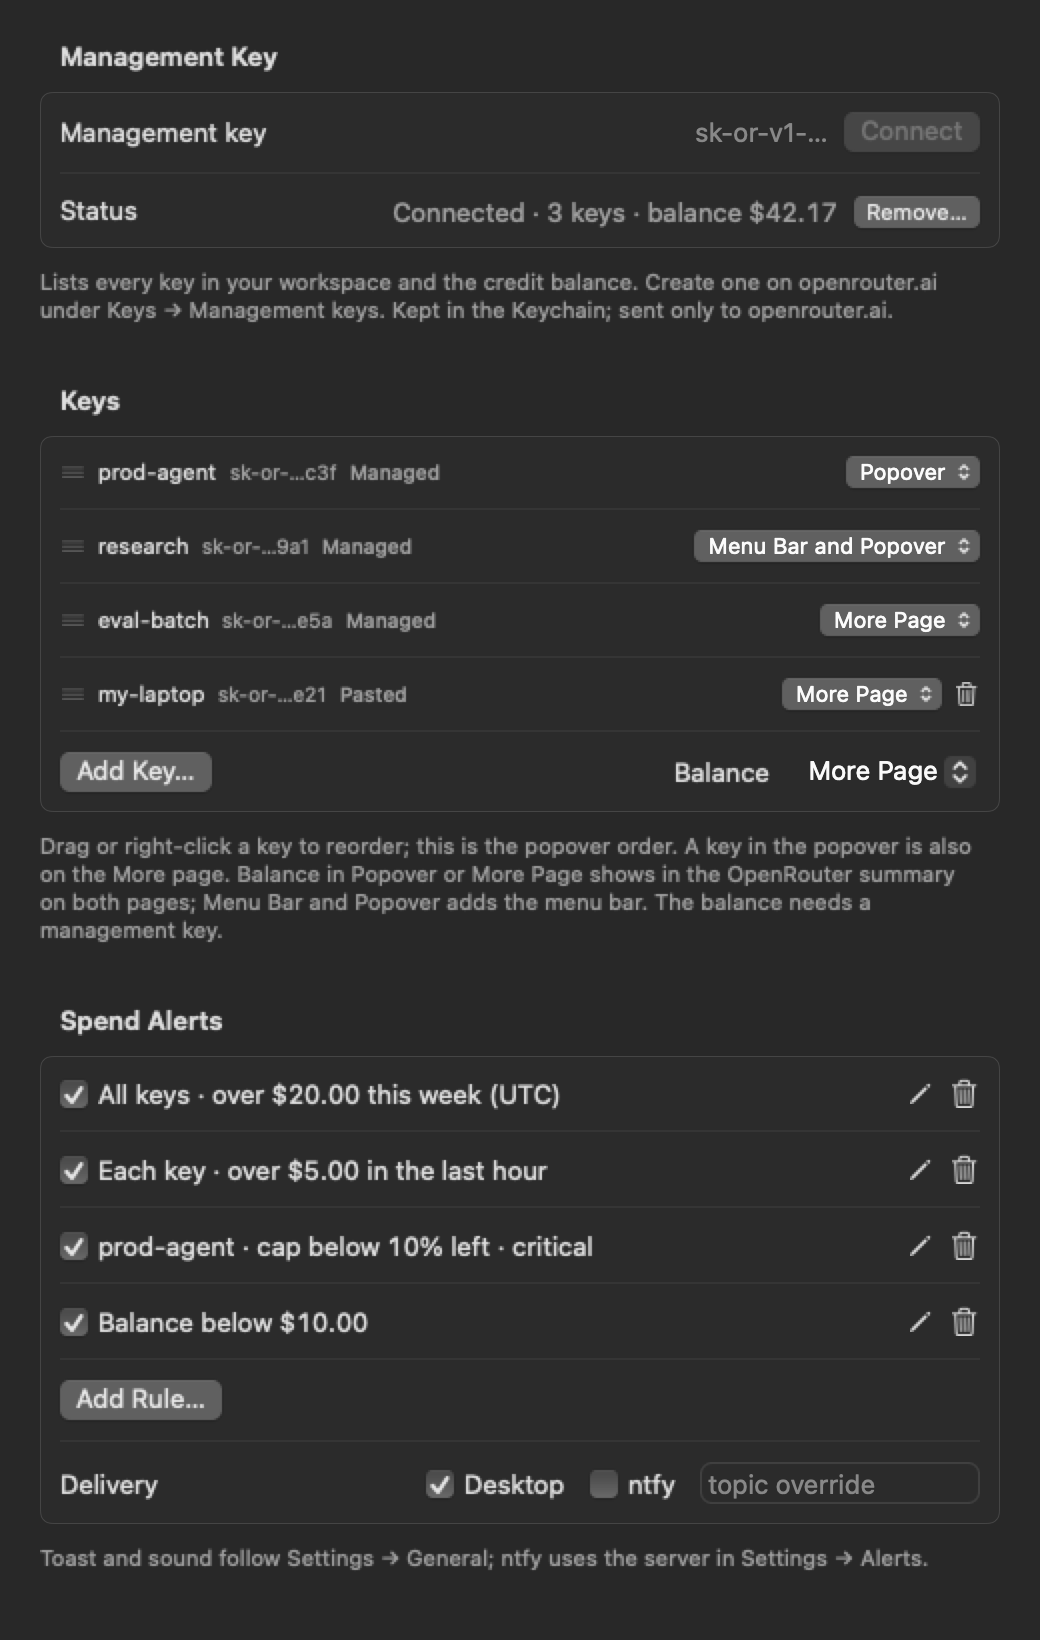
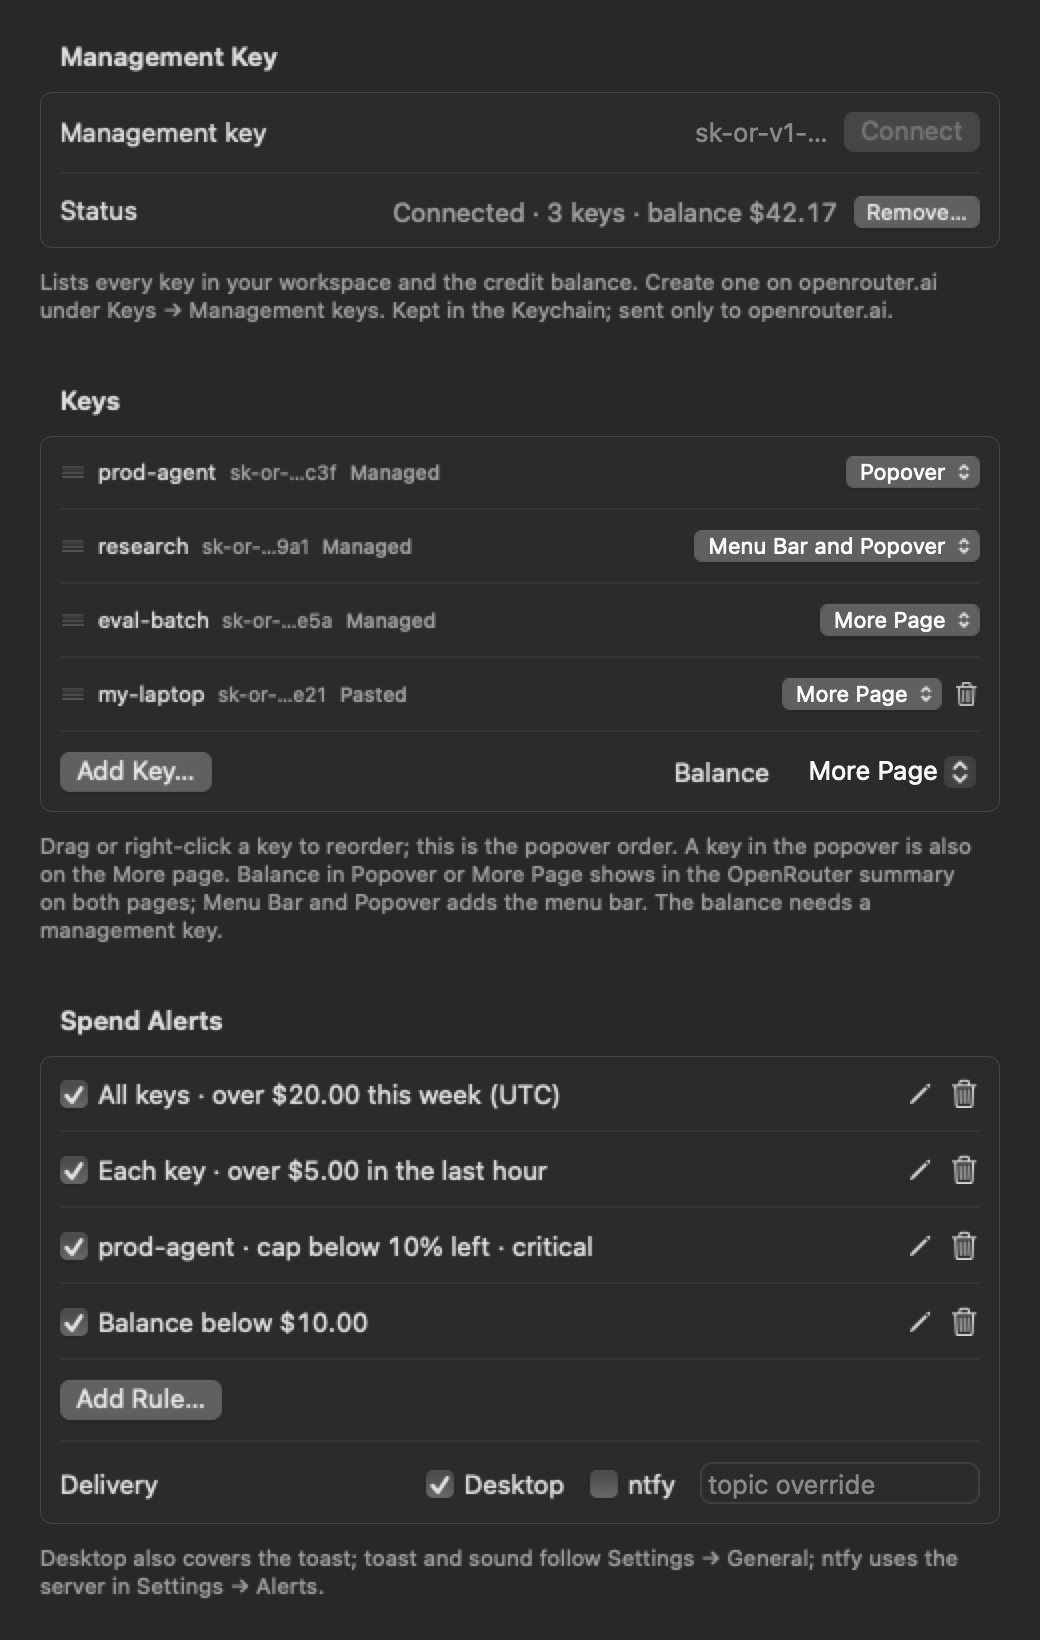
1.14.0: alert switches + per-account Mac/ntfy alerts (#26)
* Alert switches: master, warning/critical, per-account Mac alerts cover toast

* 1.14.0: version, docs, Accounts screenshot

* Settings: footer hints per mac-design SET-6/9, Alerts pane height, silenced alerts skip support card

* Settings: update Alerts pane height comment

---------

Changed region(s): [[0.0308, 0.9329, 0.4, 0.9951], [0.4308, 0.9329, 0.9231, 0.964]]

diff --git a/AgentsMonitor/SettingsView.swift b/AgentsMonitor/SettingsView.swift
@@ -251,7 +251,8 @@ struct AccountsTab: View {
                     ForEach(Placement.allCases, id: \.self) { Text($0.label).tag($0) }
                 }
                 .pickerStyle(.menu)
-                Toggle("Desktop alerts", isOn: binding(for: account, \.desktopAlerts))
+                Toggle("Mac alerts", isOn: binding(for: account, \.desktopAlerts))
+                    .help("Desktop notification and toast for this account")
                 Toggle("ntfy alerts", isOn: binding(for: account, \.ntfyEnabled))
                 TextField("ntfy topic", text: bindingOptional(for: account, \.ntfyTopicOverride), prompt: Text("Default topic"))
                 if case .remote = account.kind {
@@ -260,8 +261,13 @@ struct AccountsTab: View {
                     }
                 }
             } footer: {
-                Text("Drag accounts, or right-click → Move Up / Move Down, to reorder; the menu bar and panel follow this order. Double-click an account to rename it.")
-                    .formFooter()
+                VStack(alignment: .leading, spacing: 4) {
+                    if account.ntfyEnabled, store.settings.ntfyDefaultTopic.isEmpty, (account.ntfyTopicOverride ?? "").isEmpty {
+                        Text("ntfy alerts need a topic: set one here, or a default topic in Alerts.")
+                    }
+                    Text("Drag accounts, or right-click → Move Up / Move Down, to reorder; the menu bar and panel follow this order. Double-click an account to rename it.")
+                }
+                .formFooter()
             }
         }
         .formStyle(.grouped)
@@ -430,12 +436,22 @@ struct AlertsTab: View {
 
     var body: some View {
         Form {
+            Section {
+                Toggle("Alerts", isOn: bindingBool(\.alertsEnabled))
+                Toggle("Warning alerts", isOn: bindingBool(\.warningAlerts)).disabled(!store.settings.alertsEnabled)
+                Toggle("Critical alerts", isOn: bindingBool(\.criticalAlerts)).disabled(!store.settings.alertsEnabled)
+            } footer: {
+                Text(store.settings.alertsEnabled
+                     ? "Pick Mac and ntfy alerts per account in the Accounts tab."
+                     : "Alerts are off: nothing goes out on any channel, for any account. Turn Alerts on to use the switches here and in Extra usage.")
+                    .formFooter()
+            }
             Section("Thresholds") {
                 Stepper("Warning: \(store.settings.thresholds.warning)%", value: warningBinding, in: 1...99)
                 Stepper("Critical: \(store.settings.thresholds.critical)%", value: criticalBinding, in: 1...100)
             }
             Section("Extra usage") {
-                Toggle("Notify when extra usage starts", isOn: extraUsageBinding)
+                Toggle("Notify when extra usage starts", isOn: extraUsageBinding).disabled(!store.settings.alertsEnabled)
                 Text("Alerts the moment paid usage starts being consumed, then stays quiet until spending pauses for 30 minutes.")
                     .font(.caption)
                     .foregroundStyle(.secondary)
@@ -499,6 +515,13 @@ struct AlertsTab: View {
                 store.settings.thresholds.critical = max(newValue, store.settings.thresholds.warning + 1)
                 store.save()
             }
+        )
+    }
+
+    private func bindingBool(_ keyPath: WritableKeyPath<AgentsMonitorKit.Settings, Bool>) -> Binding<Bool> {
+        Binding(
+            get: { store.settings[keyPath: keyPath] },
+            set: { store.settings[keyPath: keyPath] = $0; store.save() }
         )
     }
 

diff --git a/AgentsMonitorKit/Sources/AgentsMonitorKit/AppStore.swift b/AgentsMonitorKit/Sources/AgentsMonitorKit/AppStore.swift
@@ -15,6 +15,9 @@ public struct Settings: Codable, Equatable, Sendable {
     public var toastEnabled: Bool = true
     public var soundEnabled: Bool = true
     public var extraUsageAlerts: Bool = true   // notify when paid extra usage starts moving
+    public var alertsEnabled: Bool = true      // master switch: off = no alert on any channel
+    public var warningAlerts: Bool = true
+    public var criticalAlerts: Bool = true
     public var providerBadge: ProviderBadgeStyle = .iconAndName
     public var providerColors: Bool = true     // tint the provider badge and account name
     public var openRouter = OpenRouterSettings()
@@ -39,9 +42,25 @@ public struct Settings: Codable, Equatable, Sendable {
         toastEnabled = try c.decodeIfPresent(Bool.self, forKey: .toastEnabled) ?? d.toastEnabled
         soundEnabled = try c.decodeIfPresent(Bool.self, forKey: .soundEnabled) ?? d.soundEnabled
         extraUsageAlerts = try c.decodeIfPresent(Bool.self, forKey: .extraUsageAlerts) ?? d.extraUsageAlerts
+        alertsEnabled = try c.decodeIfPresent(Bool.self, forKey: .alertsEnabled) ?? d.alertsEnabled
+        warningAlerts = try c.decodeIfPresent(Bool.self, forKey: .warningAlerts) ?? d.warningAlerts
+        criticalAlerts = try c.decodeIfPresent(Bool.self, forKey: .criticalAlerts) ?? d.criticalAlerts
         providerBadge = try c.decodeIfPresent(ProviderBadgeStyle.self, forKey: .providerBadge) ?? d.providerBadge
         providerColors = try c.decodeIfPresent(Bool.self, forKey: .providerColors) ?? d.providerColors
         openRouter = try c.decodeIfPresent(OpenRouterSettings.self, forKey: .openRouter) ?? d.openRouter
+    }
+
+    /// Whether a fired alert may go out. Filtered at delivery, not in AlertEngine, so de-dupe
+    /// memory keeps tracking and re-enabling a level never floods old alerts.
+    /// The extra-usage alert has its own switch (`extraUsageAlerts`), so the level switches skip it.
+    public func allows(_ alert: Alert) -> Bool {
+        guard alertsEnabled else { return false }
+        if alert.key == "spendBurst" { return true }
+        switch alert.level {
+        case .critical: return criticalAlerts
+        case .warning: return warningAlerts
+        case .none: return true
+        }
     }
 }
 

diff --git a/AgentsMonitorKit/Tests/AgentsMonitorKitTests/AgentsMonitorKitTests.swift b/AgentsMonitorKit/Tests/AgentsMonitorKitTests/AgentsMonitorKitTests.swift
@@ -413,6 +413,21 @@ final class SettingsCodableTests: XCTestCase {
         XCTAssertTrue(decoded.extraUsageAlerts, "new field falls back to its default")
     }
 
+    func testAlertSwitchesFilterByLevel() {
+        func alert(_ key: String, _ level: AlertLevel) -> Alert {
+            Alert(accountId: UUID(), accountName: "a", key: key, title: "t", body: "b", level: level)
+        }
+        var s = Settings()
+        XCTAssertTrue(s.allows(alert("five_hour", .warning)))
+        s.warningAlerts = false
+        XCTAssertFalse(s.allows(alert("five_hour", .warning)))
+        XCTAssertTrue(s.allows(alert("five_hour", .critical)))
+        XCTAssertTrue(s.allows(alert("spendBurst", .warning)), "extra usage has its own switch")
+        s.alertsEnabled = false
+        XCTAssertFalse(s.allows(alert("five_hour", .critical)))
+        XCTAssertFalse(s.allows(alert("spendBurst", .warning)))
+    }
+
     func testEmptyObjectDecodesToDefaults() throws {
         let decoded = try JSONDecoder().decode(Settings.self, from: "{}".data(using: .utf8)!)
         XCTAssertEqual(decoded, Settings())

diff --git a/AgentsMonitor/SettingsWindow.swift b/AgentsMonitor/SettingsWindow.swift
@@ -62,10 +62,10 @@ final class SettingsWindow {
             let tabs = SettingsTabs()
             tabs.tabStyle = .toolbar
             // Each pane gets its own height (SET-8): grouped forms have no intrinsic height. Measured offscreen:
-            // Alerts needs ~670, General ~760, OpenRouter ~800 with six keys showing and four rules (all fit below).
+            // Alerts needs ~850 (1.14.0 switches section +178), General ~760, OpenRouter ~800 with six keys showing and four rules (all fit below).
             add(tabs, "Accounts", "person.2", AccountsTab(), height: 500)
             add(tabs, "OpenRouter", "arrow.triangle.branch", OpenRouterTab(), height: 820)
-            add(tabs, "Alerts", "bell", AlertsTab(), height: 680)
+            add(tabs, "Alerts", "bell", AlertsTab(), height: 860)
             add(tabs, "General", "gearshape", GeneralTab(), height: 760)
             add(tabs, "About", "info.circle", AboutTab(), height: 300)
             if let last = UserDefaults.standard.string(forKey: SettingsTabs.lastTabKey),  // reopen on the last pane (SET-3)

diff --git a/AgentsMonitor/App.swift b/AgentsMonitor/App.swift
@@ -30,7 +30,11 @@ struct AgentsMonitorApp: App {
 final class AppDelegate: NSObject, NSApplicationDelegate, UNUserNotificationCenterDelegate {
     func applicationDidFinishLaunching(_ notification: Notification) {
         let store = AppStore.shared
-        store.onAlerts = { SupportPrompt.shared.alerted(sent: Notifier.deliver($0, account: $1)) }
+        store.onAlerts = { alerts, account in
+            let allowed = alerts.filter(store.settings.allows)
+            guard !allowed.isEmpty else { return }  // a silenced alert must not touch the support card
+            SupportPrompt.shared.alerted(sent: Notifier.deliver(allowed, account: account))
+        }
         store.bootstrap()
         LoginItem.ensureRegistered()
         _ = Updates.controller  // starts the daily update check

diff --git a/AgentsMonitor/Notifier.swift b/AgentsMonitor/Notifier.swift
@@ -17,7 +17,9 @@ enum Notifier {
         var sent = 0
 
         for alert in alerts {
-            var out = account.desktopAlerts || settings.toastEnabled
+            // "Mac alerts" for an account = desktop notification + toast; off silences both.
+            let toast = account.desktopAlerts && settings.toastEnabled
+            var out = account.desktopAlerts
             if account.desktopAlerts {
                 postDesktopNotification(alert)
             }
@@ -30,7 +32,7 @@ enum Notifier {
                     out = true
                 }
             }
-            if settings.toastEnabled {
+            if toast {
                 ToastPanel.show(alert)
             }
             if out { sent += 1 }

diff --git a/AgentsMonitor/OpenRouterSettings.swift b/AgentsMonitor/OpenRouterSettings.swift
@@ -276,7 +276,7 @@ struct OpenRouterTab: View {
         } header: {
             Text("Spend Alerts")
         } footer: {
-            Text("Toast and sound follow Settings → General; ntfy uses the server in Settings → Alerts.")
+            Text("Desktop also covers the toast; toast and sound follow Settings → General; ntfy uses the server in Settings → Alerts.")
                 .formFooter()
         }
     }

diff --git a/docs/USER-GUIDE.md b/docs/USER-GUIDE.md
@@ -268,7 +268,7 @@ Alert texts look like **OpenRouter — prod-agent** / "$5.20 spent in the last h
 **OpenRouter — all keys** / "$21.40 spent this week (UTC) · over $20.00", **OpenRouter — prod-agent
 cap** / "$1.20 of $20.00 left · below $2.00", **OpenRouter — balance** / "$8.50 left · below $10.00".
 Each rule is a warning or a critical alert. They are delivered as one "OpenRouter" sender with its own
-**Desktop** and **ntfy** switches and topic override (Settings → OpenRouter); toast and sound follow
+**Desktop** and **ntfy** switches and topic override (Settings → OpenRouter); the toast follows its Desktop switch and
 Settings → General. Untick a rule to pause it.
 
 <img src="screenshots/spend-rule.png" alt="The Add Spend Alert sheet" width="440">
@@ -321,7 +321,7 @@ debounce working as intended.
 
 Each toggled per account in Settings → Accounts:
 
-- **Desktop** — a standard `UNUserNotificationCenter` banner with sound. Requires the
+- **Desktop** (part of **Mac alerts**) — a standard `UNUserNotificationCenter` banner with sound. Requires the
   notification permission granted on first launch; if denied, these are silently dropped (check
   Settings → Alerts for the current authorization status).
 - **ntfy** — a JSON `POST` to your configured server (default `https://ntfy.sh`) and topic.
@@ -329,7 +329,12 @@ Each toggled per account in Settings → Accounts:
   Settings → Accounts. See [ntfy setup from zero](#ntfy-setup-from-zero) below if you've never
   used it.
 - **Toast** — an in-app floating panel, top-right, slide-and-fade with sound, shown regardless
-  of which app is frontmost. Global on/off in Settings → General, not per-account.
+  of which app is frontmost. Shown for accounts with **Mac alerts** on; global on/off in
+  Settings → General.
+
+The account's **Mac alerts** switch covers Desktop + Toast, **ntfy alerts** covers ntfy, so an
+account can have both, only one, or none. Settings → Alerts adds a master **Alerts** switch and
+**Warning alerts** / **Critical alerts** switches that apply to every account (and OpenRouter rules).
 
 <img src="screenshots/toasts.png" alt="Two Agents Monitor toast alerts stacked top-right" width="420">
 
@@ -343,7 +348,7 @@ Agents Monitor again from Applications or Raycast brings it up. All changes are 
 **−** under it: **+** is the **Add Account** menu (**Claude Code Account…** / **Codex Account…** —
 folder pickers validated against a real keychain entry — and **Remote Claude Account…**, a paste
 sheet), **−** removes the selected account. Below the list are the selected account's options: **Name**
-with **Rename…**, the **Show in** pop-up ([placement](#placement)), **Desktop alerts**, **ntfy alerts**,
+with **Rename…**, the **Show in** pop-up ([placement](#placement)), **Mac alerts** (desktop + toast), **ntfy alerts**,
 the ntfy topic override and, for a remote account, **Credentials → Repaste…**. Rename opens a small
 sheet (double-click an account, or right-click → **Rename…**); Return saves, an empty name is ignored.
 Right-click an account for **Rename…**, **Repaste Credentials…** (remote), **Move Up** / **Move Down**
@@ -362,6 +367,9 @@ and **Remove**.
   rule sheet. **Delivery**: Desktop, ntfy and a topic override for OpenRouter alerts.
 
 **Alerts:**
+- **Alerts** — master switch; off silences every channel for every account.
+- **Warning alerts** / **Critical alerts** — turn one level off for all accounts. Extra-usage
+  alerts have their own switch.
 - **Warning / Critical thresholds** — steppers, 1–100%, warning is always kept below critical.
 - **ntfy server** and **default topic** — used by any account with ntfy enabled and no
   per-account override.

diff --git a/README.md b/README.md
@@ -126,7 +126,9 @@ the last hour or 24 hours as measured from the app's own polls), cap left below 
 percent, or the credit balance below an amount. Each rule is a warning or a critical alert, and
 goes out through the same sinks as one "OpenRouter" sender.
 
-Three sinks, each toggleable per account in Settings:
+Three sinks. Per account, **Mac alerts** switches Desktop + Toast and **ntfy alerts** switches ntfy,
+so each account can have both, one, or none. Settings → Alerts adds an **Alerts** master switch and
+**Warning alerts** / **Critical alerts** switches for all accounts.
 - **Desktop** — a standard notification (grant permission once when macOS asks on first launch)
 - **ntfy** — a JSON POST to your server/topic, priority 3 (warning) / 4 (critical); each account
   can override the default topic. Optional access token (for a self-hosted server that needs a
@@ -134,7 +136,7 @@ Three sinks, each toggleable per account in Settings:
 - **Toast** — a floating panel top-right with a slide-and-fade animation and a sound
 
 <div align="center">
-<img src="docs/screenshots/settings-accounts.png" alt="Settings, Accounts tab: a list of accounts (Work, Personal, Side project, Codex) with + and − below, and the selected account's options: Name with Rename…, Show in set to Menu Bar and Popover, Desktop and ntfy alert switches and the ntfy topic." width="420">
+<img src="docs/screenshots/settings-accounts.png" alt="Settings, Accounts tab: a list of accounts (Work, Personal, Side project, Codex) with + and − below, and the selected account's options: Name with Rename…, Show in set to Menu Bar and Popover, Mac alerts and ntfy alerts switches and the ntfy topic." width="420">
 <br><br>
 <img src="docs/screenshots/toasts.png" alt="Agents Monitor toast notifications stacking top-right: a weekly-limit alert, an extra-usage alert and a Codex session alert." width="420">
 <br><br>
@@ -233,7 +235,7 @@ as you.
 ## Build & test
 
 ```bash
-swift test --package-path AgentsMonitorKit          # 132 unit tests (parsing for both providers and OpenRouter, derivation, alert engine, spend rules, placement, credentials, settings, menu bar, defaults migration, usage history)
+swift test --package-path AgentsMonitorKit          # 146 unit tests (parsing for both providers and OpenRouter, derivation, alert engine, spend rules, placement, credentials, settings, menu bar, defaults migration, usage history)
 xcodebuild -workspace AgentsMonitor.xcworkspace -scheme AgentsMonitor \
   -configuration Release -derivedDataPath build build
 cp -R build/Build/Products/Release/AgentsMonitor.app /Applications/

diff --git a/CHANGELOG.md b/CHANGELOG.md
@@ -7,6 +7,14 @@ and this project adheres to [Semantic Versioning](https://semver.org/spec/v2.0.0
 
 ## [Unreleased]
 
+## [1.14.0] - 2026-11-22
+
+### Added
+- Settings → Alerts: an **Alerts** master switch (off silences every channel for every account) and separate **Warning alerts** / **Critical alerts** switches.
+
+### Changed
+- Settings → Accounts: "Desktop alerts" is now **Mac alerts** and also governs the toast, so each account can have Mac alerts, ntfy alerts, both or none. Before, the toast showed for every account even with desktop alerts off. The same goes for the OpenRouter **Desktop** delivery switch.
+
 ## [1.13.0] - 2026-11-19
 
 ### Fixed
